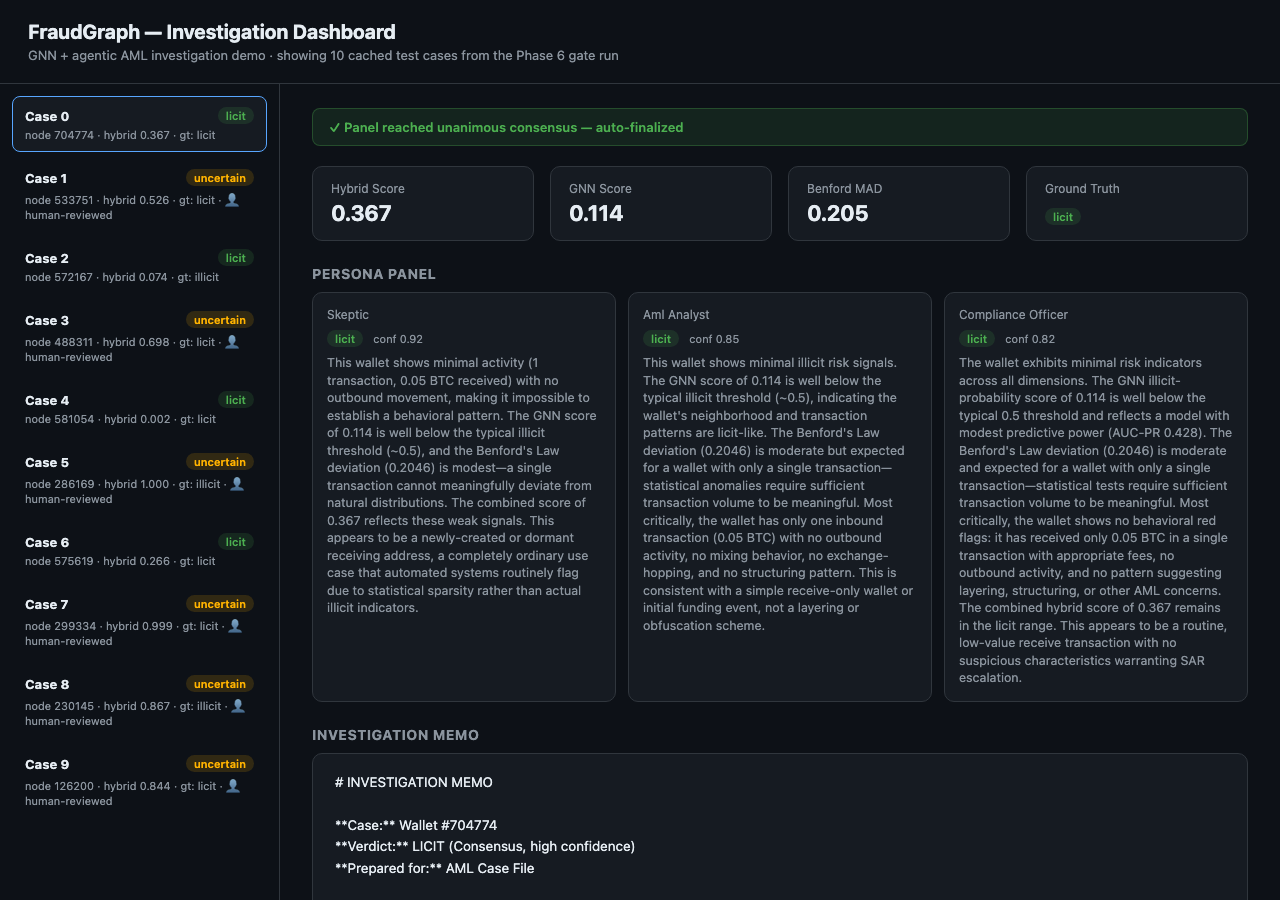
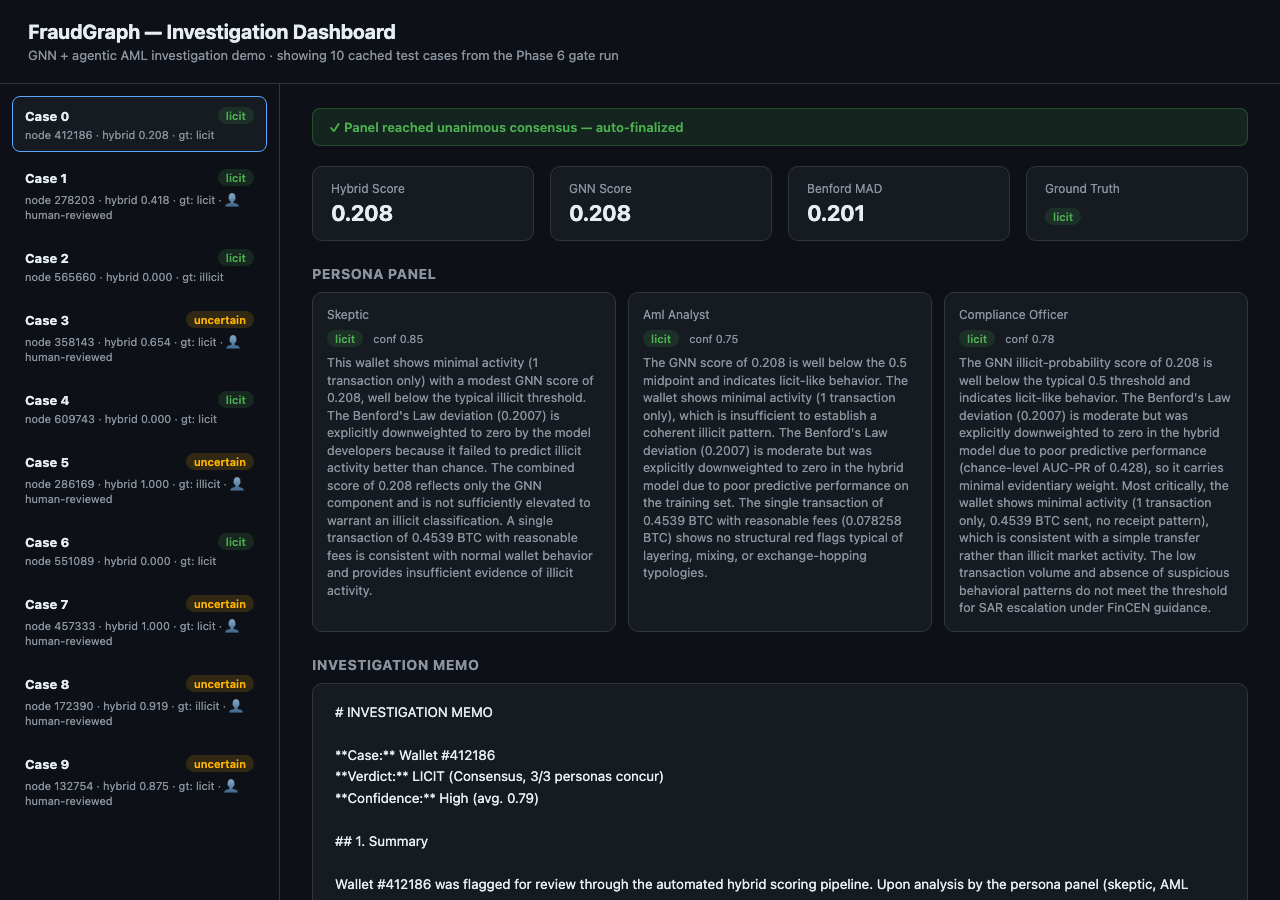
Fix sidebar/detail data desync: add cache-busting to dashboard fetches
Live bug report: sidebar showed the old pre-hybrid-fix case set while
the detail panel showed corrected data for the same case. Verified the
underlying JSON files were already correct and consistent (both locally
and on the live site, cross-checked with cache-busting query params) --
the CDN in front of the static Space sets no Cache-Control header on the
data files, so different edge locations could serve different cached
ages of cases.json vs case_N.json to different users.

Fixed by appending a per-page-load timestamp to every data fetch in
index.html, forcing a fresh origin request every time regardless of CDN
caching. Verified via an actual browser click-through of all 10 cases
(not just a JSON diff): sidebar node/score, detail panel score, and the
memo's own quoted wallet number all agree for every case.

Also regenerated assets/dashboard_screenshot.png, which was stale from
before the hybrid-formula fix (first attempt was cropped mid-render;
retried with --virtual-time-budget to let the async data fetch complete
before capture).

diff --git a/dashboard/static/index.html b/dashboard/static/index.html
@@ -52,8 +52,16 @@
 </div>
 
 <script>
+// Cache-busting token: one per page load. The CDN in front of this static
+// site has no Cache-Control header on the data files, so different edge
+// locations can serve different cached ages of cases.json vs case_N.json
+// (a real bug hit in production: sidebar and detail panel showed different
+// case sets after a data update). Appending a per-load token to every fetch
+// guarantees a fresh, uncached request from origin every time the page loads.
+const CACHE_BUST = Date.now();
+
 async function loadCases() {
-  const res = await fetch('data/cases.json');
+  const res = await fetch(`data/cases.json?v=${CACHE_BUST}`);
   const cases = await res.json();
   const list = document.getElementById('case-list');
   list.innerHTML = '';
@@ -80,7 +88,7 @@ async function selectCase(caseId) {
   document.querySelectorAll('.case-item').forEach(el => el.classList.remove('active'));
   document.getElementById(`case-item-${caseId}`)?.classList.add('active');
 
-  const res = await fetch(`data/case_${caseId}.json`);
+  const res = await fetch(`data/case_${caseId}.json?v=${CACHE_BUST}`);
   const c = await res.json();
   const detail = document.getElementById('detail');
 
